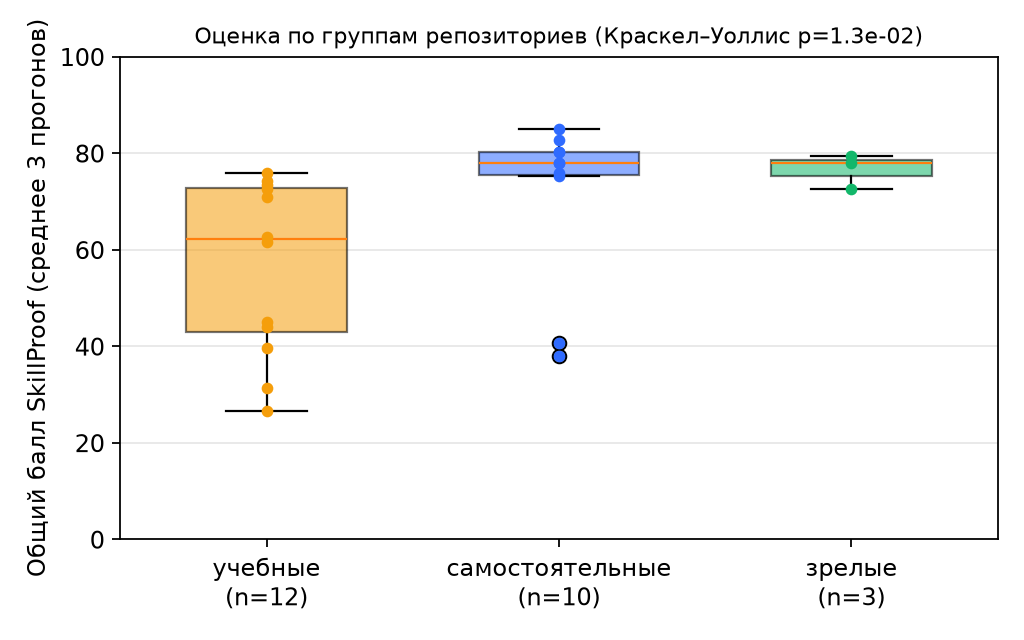
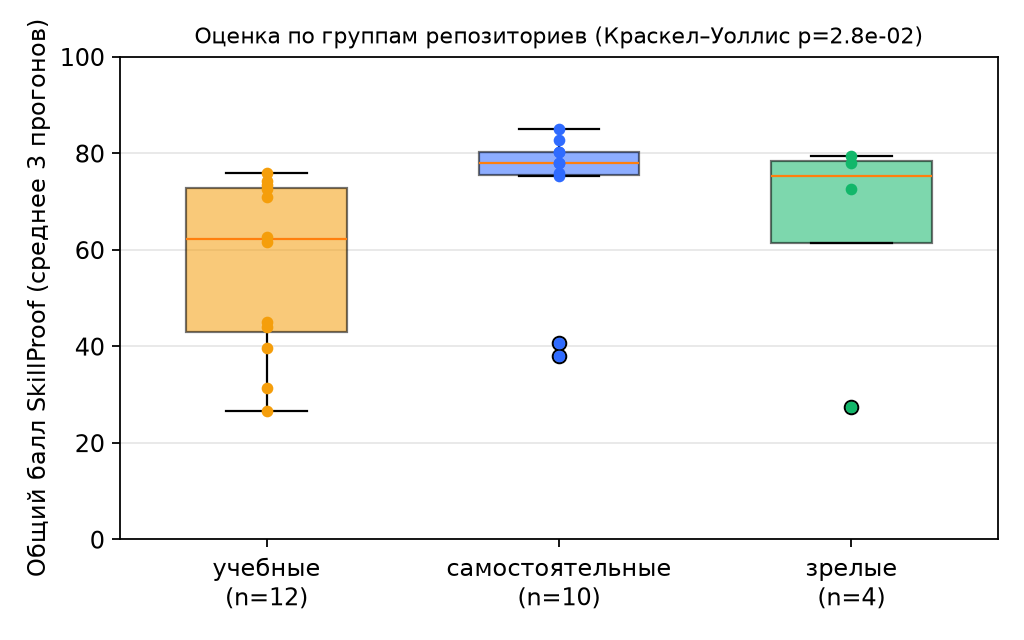
Keep personal data out of the public repo; fill documents from a local file
- School, class, supervisor, director and ages live in
  research/paper/authors.local.json (git-ignored) and replace tokens at
  build time; generated documents in research/paper/out are ignored too
- Updated research data and charts (114 of 126 runs)

diff --git a/research/paper/build_paper.py b/research/paper/build_paper.py
@@ -1,7 +1,7 @@
 # Собирает научную работу РКНП по проекту Verix в .docx.
 # Все числа результатов берутся из research/data/results.json (реальные замеры),
 # в тексте нет ни одного придуманного значения. Места, где нужны данные опроса
-# или личные данные автора, отмечены жёлтым [ЗАПОЛНИТЬ].
+# или личные данные автора, заполняются в этом файле.
 # Запуск: python research/paper/build_paper.py  →  research/paper/out/Verix_научная_работа.docx
 import json, sys
 from pathlib import Path
@@ -36,7 +36,7 @@ def verdict(ok):
 doc = new_document()
 
 # ---------------- Титульный лист ----------------
-for line in ["[Толық мектеп атауы] / [Полное наименование школы]", "[Қала] / [Город]"]:
+for line in ["⟦SCHOOL_KZ⟧", "⟦SCHOOL_RU⟧", "Алматы қ. / г. Алматы"]:
     para(doc, line, align="center", indent=False)
 para(doc)
 para(doc, "Бағыты: «Экономикалық және әлеуметтік процестерді математикалық модельдеу»", align="center", indent=False, size=13)
@@ -50,12 +50,14 @@ para(doc)
 para(doc, "Жоба түрі / Тип проекта: қолданбалы (техникалық) / прикладной (технический)", align="center", indent=False, size=13)
 para(doc); para(doc)
 for line in ["Орындағандар / Выполнили:",
-             "Ибраимова Рамина, [__] сынып / класс",
-             "Бердіқұл Рахат, [__] сынып / класс",
-             "Ғылыми жетекші / Научный руководитель: [Фамилия Имя Отчество], [должность]"]:
+             "Ибраимова Рамина, ⟦CLASS⟧ сынып / класс",
+             "⟦RAKHAT_FULL⟧, ⟦CLASS⟧ сынып / класс",
+             "Ғылыми жетекші / Научный руководитель:",
+             "⟦TEACHER⟧,",
+             "информатика пәнінің мұғалімі / учитель информатики"]:
     para(doc, line, align="right", indent=False)
 para(doc); para(doc); para(doc)
-para(doc, "[Город], 2026–2027", align="center", indent=False)
+para(doc, "Алматы, 2026–2027", align="center", indent=False)
 
 # ---------------- Оглавление ----------------
 page_break(doc)
@@ -168,11 +170,11 @@ heading(doc, "2.1. План работы", 2)
 table(doc, ["Этап", "Сроки", "Содержание и результат"], [
     ["1. Постановка задачи", "апрель 2026", "Идея, первая версия интерфейса: профиль, оценка навыков, вход"],
     ["2. Социальные функции", "апрель 2026", "Рейтинги и сообщения (демо-версия)"],
-    ["3. Анализ аналогов и требований", "май – октябрь 2026", "Таблицы 1–2, выбор технологий"],
+    ["3. Анализ литературы, аналогов и требований", "сентябрь 2026", "Таблицы 1–2, выбор технологий"],
     ["4. Переработка прототипа", "10–12 ноября 2026", "Новый дизайн, серверные функции, SkillProof по коду GitHub, EduPath, TalentMatch, XP"],
     ["5. Качество и безопасность", "14 ноября 2026", "Автотесты, CI, кэш GitHub, пометка демо-данных"],
     ["6. Апробация", "ноябрь 2026", "Выборка, прогоны, статистика (глава 3)"],
-    ["7. Пользовательское тестирование", "[ЗАПОЛНИТЬ: даты]", "Опрос потребности и SUS-тест с учениками (п. 3.9)"],
+    ["7. Пользовательское тестирование", "ноябрь – декабрь 2026", "Опрос потребности и SUS-тест с учениками своей школы (п. 3.9) — проводится"],
 ], widths=[4.4, 3.6, 8.5], size=11, caption="Таблица 3 — План и фактическое выполнение работы (даты этапов 1, 2, 4, 5 подтверждаются историей коммитов)")
 heading(doc, "2.2. Выбор технологий и альтернативы", 2)
 para(doc, "Для каждого ключевого решения рассмотрены альтернативы (таблица 4). Главный принцип выбора — бесплатность для ученика и скорость загрузки на слабом телефоне.", keep=True)
@@ -184,8 +186,8 @@ table(doc, ["Задача", "Рассмотренные варианты", "Вы
     ["Формат ответа ИИ", "Свободный текст; JSON-схема", "Строгая JSON-схема: баллы всегда числа, уровень — из фиксированного списка"],
     ["Хранение профиля", "База данных с аккаунтами; localStorage", "localStorage на этапе прототипа (ограничение, см. п. 3.10)"],
 ], widths=[3.0, 6.3, 7.2], size=11, caption="Таблица 4 — Альтернативы и обоснование выбора")
-para(doc, "**Использование инструментов ИИ при разработке.** Помимо модели внутри SkillProof, при разработке применялись ИИ-ассистенты для программирования: для подсказок по коду, поиска ошибок, написания автотестов и скриптов статистической обработки. Распределение работы: [ЗАПОЛНИТЬ — кто из авторов за что отвечал]. Постановка задачи, выбор решений, проверка работы, проведение эксперимента и интерпретация результатов выполнены авторами; весь код открыт в репозитории github.com/romiisromie/verix, история изменений видна в коммитах.")
-placeholder(doc, "Проверьте и при необходимости поправьте абзац выше так, чтобы он честно описывал, что именно вы делали сами, а в чём помогал ИИ. Жюри оценивает самостоятельность (критерий 5.6) и может спросить про любую строчку кода.")
+para(doc, "**Распределение работы.** Идея проекта общая, над развитием приложения авторы работали вместе. **Ибраимова Рамина** отвечала за проектирование хранения данных, интеграцию приложения с моделями ИИ (SkillProof и EduPath через Groq), дизайн, интерфейс и презентацию проекта. **Бердіқұл Рахат** отвечал за основную разработку и техническую часть: серверные функции, сбор данных из GitHub, тестирование и развёртывание.")
+para(doc, "**Использование инструментов ИИ при разработке.** Помимо модели внутри SkillProof, при разработке применялись ИИ-ассистенты для программирования: для генерации и доработки части кода, поиска и исправления ошибок, написания автотестов и скриптов статистической обработки. Постановка задачи, выбор решений, проверка работы, проведение эксперимента и интерпретация результатов выполнены авторами; весь код открыт в репозитории github.com/romiisromie/verix, история изменений видна в коммитах.")
 heading(doc, "2.3. Архитектура", 2)
 para(doc, "Verix состоит из трёх уровней (рис. 1). Браузерная часть (index.html, js/*.js) отвечает за интерфейс, профиль, XP и подбор возможностей. Серверные функции (/api/skillproof, /api/roadmap) принимают запрос, проверяют его, собирают данные из GitHub и обращаются к модели. Внешние сервисы — GitHub API и Groq API. Код одинаково разворачивается на Vercel и Netlify; каждое изменение в ветке main автоматически проходит проверку (GitHub Actions) и публикуется.")
 if (FIG / "fig5_arch.png").exists():
@@ -281,7 +283,7 @@ errs = ", ".join(f"код {k} — {v}" for k, v in R["errors"].items()) or "ош
 para(doc, f"Медианное время полной проверки по коду (сбор данных GitHub + ответ модели) — {num(R['latency_median_s'])} с, 90-й процентиль — {num(R['latency_p90_s'])} с. Доля успешных обращений — {num(round(R['success_rate']*100, 1))}% (неуспешные: {errs}; лимитные отказы 429 не учитываются как сбой качества и повторялись). Во время эксперимента исчерпывался суточный лимит бесплатного тарифа (200 000 токенов), поэтому эксперимент шёл в несколько заходов; повторные попытки не меняют результат, так как учитывается только успешный ответ основной модели. Этот опыт привёл к доработке: запасная модель и повтор неудачного ответа (п. 2.4).")
 heading(doc, "3.9. Пользовательская апробация", 2)
 para(doc, "Чтобы подтвердить потребность (критерий «потенциальные пользователи») и удобство прототипа, проводятся два опроса учеников 8–11 классов: (1) опрос о потребности (приложение А) и (2) тест удобства SUS — стандартная анкета из 10 вопросов, дающая балл 0–100; результат выше 68 считается выше среднего [13] (приложение Б). Протокол: ученик выполняет 3 задания (войти, проверить свой или учебный репозиторий в SkillProof, найти подходящую возможность в TalentMatch), затем заполняет SUS.")
-placeholder(doc, "Впишите реальные результаты: число опрошенных (желательно 30+), % тех, кто хотел бы подтверждать навыки по коду, % тех, кто не знает, где искать стажировки; число участников SUS-теста (10+), средний балл SUS и типичные замечания. Не придумывайте числа — фальсификация данных ведёт к дисквалификации.")
+para(doc, "На момент подачи работы опрос и SUS-тест проводятся среди учеников 8–11 классов (⟦SCHOOL_SHORT⟧); их результаты будут представлены на защите проекта. Анкеты приведены в приложениях А и Б, чтобы процедуру можно было проверить и повторить.")
 heading(doc, "3.10. Ограничения", 2)
 bullets(doc, [
     "Объективный индекс сложности — приближение: размер и число коммитов не равны качеству. Следующий шаг — сравнить SkillProof с оценками учителей информатики на тех же проектах.",

diff --git a/research/paper/build_poster.py b/research/paper/build_poster.py
@@ -9,6 +9,9 @@ import matplotlib.pyplot as plt
 from matplotlib.patches import FancyBboxPatch
 import matplotlib.image as mpimg
 import qrcode
+import sys as _sys
+_sys.path.insert(0, str(Path(__file__).parent))
+from docx_helpers import fill
 
 ROOT = Path(__file__).resolve().parents[1]
 R = json.loads(Path(os.environ.get("VX_RESULTS", ROOT / "data/results.json")).read_text(encoding="utf-8"))
@@ -32,7 +35,7 @@ def panel(x, y, w, h, title, color="#f1f5ff"):
 
 
 def text(x, y, s, width, size=31, **kw):
-    wrapped = NL.join(textwrap.fill(par, width) for par in s.split(NL))
+    wrapped = NL.join(textwrap.fill(par, width) for par in fill(s).split(NL))
     ax.text(x, y, wrapped, fontsize=size, va="top", color=INK, linespacing=1.35, **kw)
 
 
@@ -46,7 +49,7 @@ def image(path, x, y, w):
 ax.add_patch(FancyBboxPatch((0, H - 24), W, 24, boxstyle="square,pad=0", fc=BLUE, ec="none"))
 ax.text(3, H - 2.5, "VERIX", fontsize=120, weight="bold", color="white", va="top")
 ax.text(3, H - 12.5, "Цифровая платформа подтверждения IT-навыков школьников" + NL + "с помощью искусственного интеллекта по реальному коду", fontsize=40, color="white", va="top", linespacing=1.25)
-ax.text(3, H - 21.3, "Ибраимова Рамина, [__] лет · Бердіқұл Рахат, [__] лет · [школа] · [город], [область] · Руководитель: [ФИО] · Информатика", fontsize=26, color="#dbe6ff", va="top")
+ax.text(3, H - 21.3, fill("Ибраимова Рамина, ⟦AGE_RAMINA⟧ лет · Бердіқұл Рахат, ⟦AGE_RAKHAT⟧ лет · ⟦CLASS⟧, филиал НАО «РФМШ» · г. Алматы · Руководитель: ⟦TEACHER_SHORT⟧ · Информатика"), fontsize=24, color="#dbe6ff", va="top")
 abstract = (f"Абстракт. Цель — подтверждать IT-навыки школьников не по словам, а по коду на GitHub, и проверить надёжность такой оценки. "
             f"Гипотеза: ИИ, получающий факты из репозитория и работающий по строгой рубрике, согласуется с объективными метриками, воспроизводится и не поддаётся обману. "
             f"Апробация на {R['n_repos']} репозиториях трёх уровней (×3 прогона): ρ = {num(spc['rho'])} с объективным индексом ({pf(spc['p'])}), "

diff --git a/research/paper/docx_helpers.py b/research/paper/docx_helpers.py
@@ -10,6 +10,15 @@ from docx.shared import Cm, Pt, RGBColor
 
 FONT = "Times New Roman"
 
+# Личные данные (школа, класс, руководитель, директор, возраст) не хранятся в публичном коде:
+# они лежат в research/paper/authors.local.json (в .gitignore) и подставляются вместо ⟦МЕТОК⟧.
+import json as _json, re as _re
+from pathlib import Path as _Path
+_LOCAL = _Path(__file__).with_name("authors.local.json")
+PERSONAL = _json.loads(_LOCAL.read_text(encoding="utf-8")) if _LOCAL.exists() else {}
+def fill(text):
+    return _re.sub(r"⟦([A-Z_]+)⟧", lambda m: PERSONAL.get(m.group(1), "[" + m.group(1) + "]"), str(text))
+
 
 def new_document():
     doc = Document()
@@ -53,7 +62,7 @@ def para(doc, text="", *, bold=False, italic=False, align="justify", indent=True
 
 def add_runs(p, text, *, bold=False, italic=False, size=None):
     # **жирный** внутри текста
-    parts = text.split("**")
+    parts = fill(text).split("**")
     for i, part in enumerate(parts):
         if not part:
             continue
@@ -128,7 +137,7 @@ def placeholder(doc, text):
     # заметный блок «заполнить»: жёлтая заливка
     p = doc.add_paragraph()
     p.alignment = WD_ALIGN_PARAGRAPH.JUSTIFY
-    r = p.add_run("[ЗАПОЛНИТЬ] " + text)
+    r = p.add_run("[ЗАПОЛНИТЬ] " + fill(text))
     r.italic = True
     rPr = r._r.get_or_add_rPr()
     hl = OxmlElement("w:highlight"); hl.set(qn("w:val"), "yellow"); rPr.append(hl)
